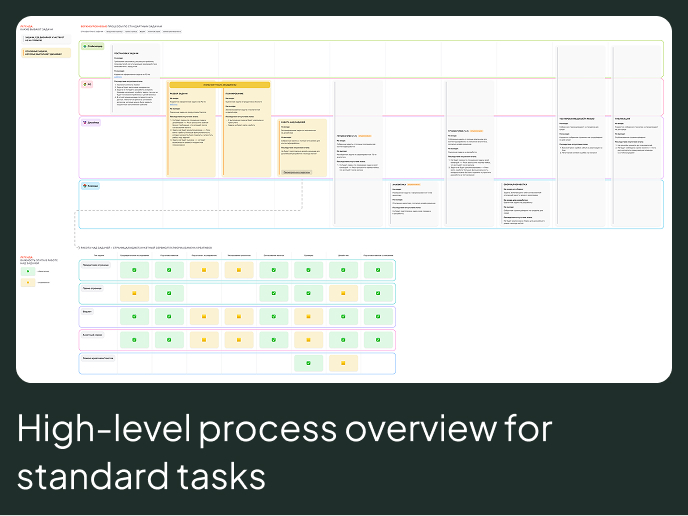
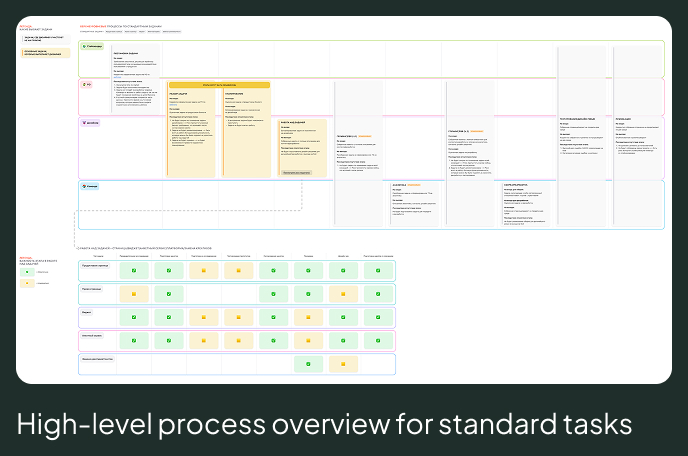
Sticky headings all sections + basket cleanup + MMaterial re-upload
- All desktop section headings: sticky top-0 self-start (metals/basket/design-process)
- Basket: remove '1st/2nd design for test' headings on desktop
- MMaterial1-4.jpg: re-uploaded images for Process materials mobile

Changed region(s): [[0.0, 0.0307, 1.0, 1.0], [0.7936, 0.2149, 0.9767, 0.3377], [0.0305, 0.4912, 0.061, 0.6447]]

diff --git a/components/TabbedCaseStudyContent.tsx b/components/TabbedCaseStudyContent.tsx
@@ -113,12 +113,6 @@ function SectionContent({
   );
 }
 
-function hasImages(section: CaseSection): boolean {
-  return splitSectionParagraphs(section.body).some(
-    (p) => p.startsWith("[IMAGES_M:") || p.startsWith("[IMAGES_D:") || p.startsWith("[IMAGE:")
-  );
-}
-
 type Props = { content: string; hideDesktopVideos?: boolean };
 
 export function TabbedCaseStudyContent({ content, hideDesktopVideos }: Props) {
@@ -174,25 +168,18 @@ export function TabbedCaseStudyContent({ content, hideDesktopVideos }: Props) {
         </div>
       </div>
 
-      {/* Desktop: two-column 636px + 24px + 636px, 128px between blocks */}
+      {/* Desktop: two-column 636px + 24px + 636px, 128px between blocks, headings sticky */}
       <div className="hidden lg:block">
-        {contentSections.map((section) => {
-          const sticky = hasImages(section);
-          return (
-            <section key={section.title} className="mt-[128px] flex items-start gap-6">
-              <h2
-                className={`w-[636px] shrink-0 text-[47px] font-medium leading-normal text-white${
-                  sticky ? " sticky top-0 self-start" : ""
-                }`}
-              >
-                {toSentenceCase(section.title)}
-              </h2>
-              <div className="w-[636px] shrink-0">
-                <SectionContent section={section} hideVideos={hideDesktopVideos} desktop />
-              </div>
-            </section>
-          );
-        })}
+        {contentSections.map((section) => (
+          <section key={section.title} className="mt-[128px] flex items-start gap-6">
+            <h2 className="sticky top-0 w-[636px] shrink-0 self-start text-[47px] font-medium leading-normal text-white">
+              {toSentenceCase(section.title)}
+            </h2>
+            <div className="w-[636px] shrink-0">
+              <SectionContent section={section} hideVideos={hideDesktopVideos} desktop />
+            </div>
+          </section>
+        ))}
       </div>
     </>
   );

diff --git a/data/cases.ts b/data/cases.ts
@@ -202,11 +202,7 @@ Early 2024 — added cashback category selector. Shipped. Still no meaningful me
 
 Mid 2024 — team expanded with marketing, researchers, motional designer. 2 design directions tested with 5 respondents each. Result: users on both variants skipped the card design and cashback selection entirely, jumping straight to form submission.
 
-[HEADING:1st design for test]
-
 [VIDEO:TestVideo1.mov]
-
-[HEADING:2nd design for test]
 
 [VIDEO:TestVideo2.mov]
 
